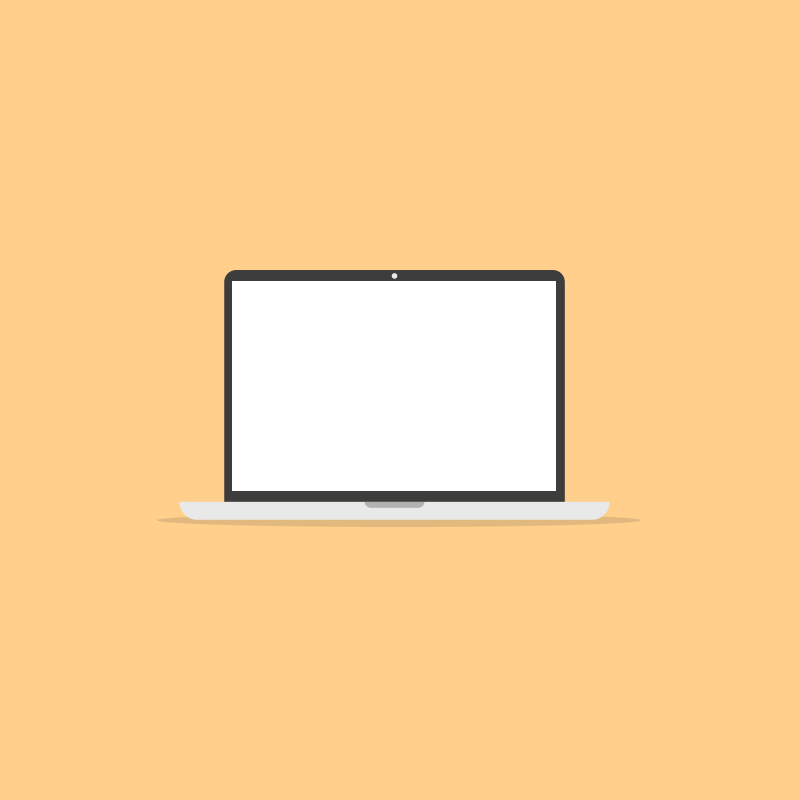
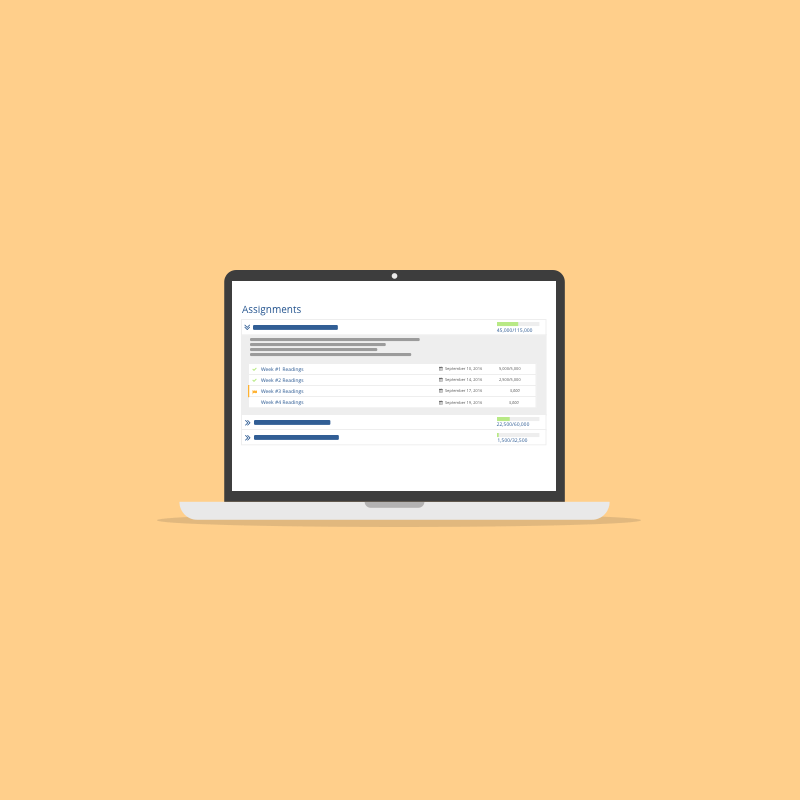
added new photos for assignment index page and poster, added logic to hide live site button if no live site available

diff --git a/_layouts/projects.html b/_layouts/projects.html
@@ -23,8 +23,10 @@ layout: default
       <h2>Process</h2>
       <p>{{page_data.process}}</p>
 
-      <img class="project-sketch grid-50 tablet-grid-50 mobile-grid-100" src="/img/{{page_data.project_image_1}}">
-      <img class="project-sketch grid-50 tablet-grid-50 mobile-grid-100" src="/img/{{page_data.project_image_2}}">
+      <div class="project-sketch-images">
+        <img src="/img/{{page_data.project_image_1}}">
+        <img src="/img/{{page_data.project_image_2}}">
+      </div>
 
       <h2>Solution</h2>
       <p>{{page_data.solution}}</p>
@@ -62,7 +64,9 @@ layout: default
       </div>
   </div>
 
-    <div class="wrap-button center-align">
-      <a class="button live-site" href="{{page_data.live_site}}" target="_blank">View Live Site</a>
-    </div>
+    {% if page_data.live_site %}
+      <div class="wrap-button center-align">
+        <a class="button live-site" href="{{page_data.live_site}}" target="_blank">View Live Site</a>
+      </div>
+    {% endif %}
 </section>

diff --git a/_sass/pages/_project-pages.scss b/_sass/pages/_project-pages.scss
@@ -72,9 +72,22 @@
   }
 }
 
-.project-sketch {
+.project-sketch-images {
   margin: 0 auto 2rem auto;
   display: block;
+  img {
+    display: inline;
+    width: 48%;
+    margin: 0.25em;
+  }
+}
+
+.project-photo {
+  max-width: 960px;
+  margin: 0 auto;
+  img {
+    width: 100%
+  }
 }
 
 .scroll {

diff --git a/_projects/2015-01-07-gradecraft-poster.md b/_projects/2015-01-07-gradecraft-poster.md
@@ -1,7 +1,31 @@
 ---
-layout: projects
+layout: default
 previous_url: dashboards
 next_url: gradecraft-site-redesign
 title: gradecraft-poster
 name: GradeCraft Poster
 ---
+{% assign page_data = site.data[page.slug] %}
+
+{% include header-projects.html %}
+
+<section class="project-page section grid-container">
+  <div class="section-header grid-100"><h1>{{page_data.name}}</h1>
+    <ul class="project-roles">
+      {% for item in page_data.role %}
+        <li>{{ item }}</li>
+      {% endfor %}
+    </ul>
+  </div>
+
+  <div class="project-data">
+    <div class="case-study challenge grid-100 mobile-grid-100 tablet-grid-100">
+      <h2>Overview</h2>
+      <p>{{page_data.overview}}</p>
+    </div>
+    <div class="project-photo">
+      <img src="/img/{{page_data.project_image_1}}">
+    </div>
+  </div>
+
+</section>
